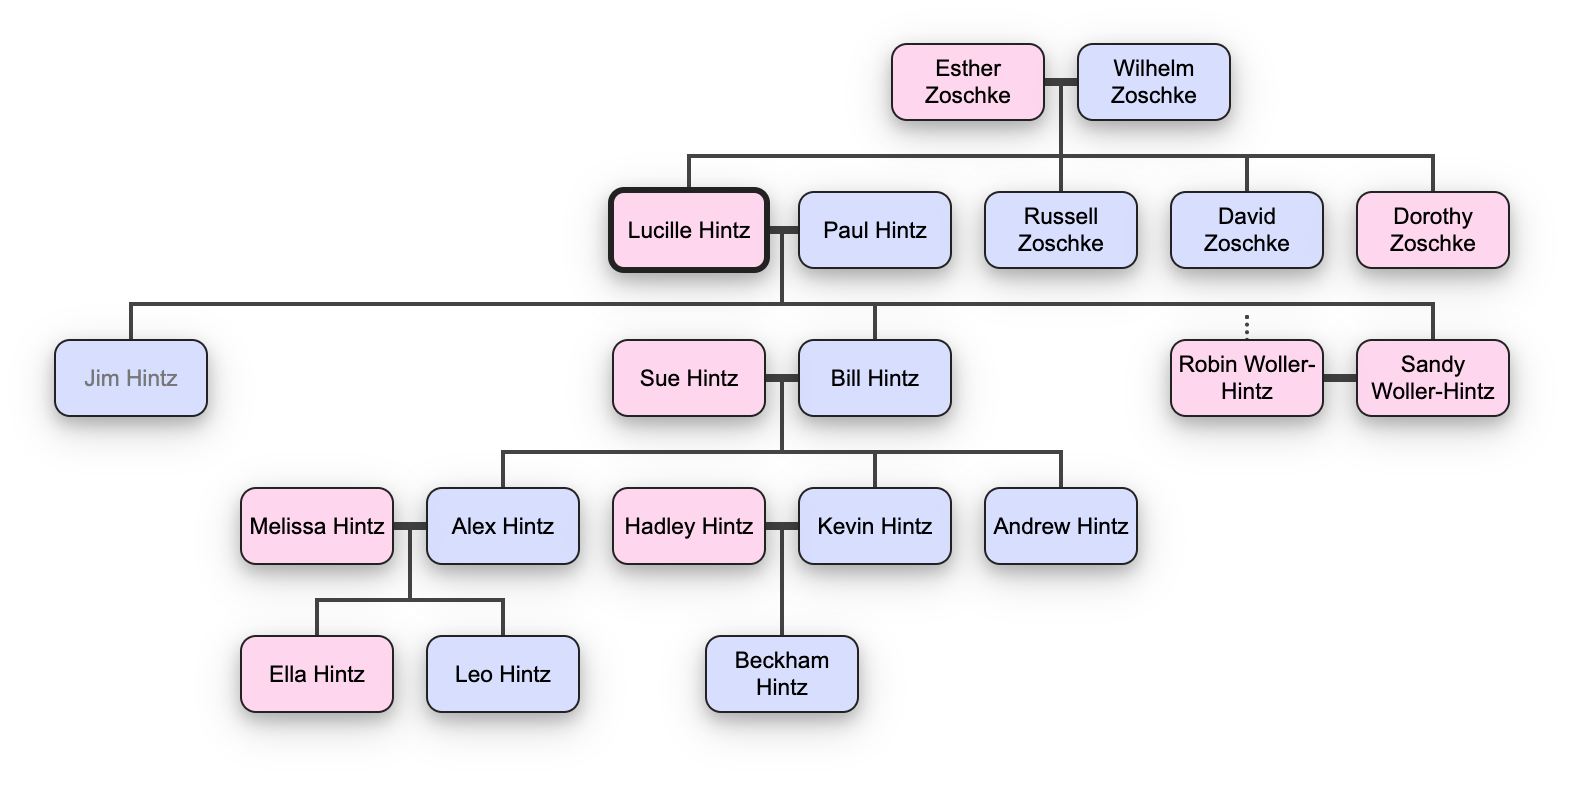
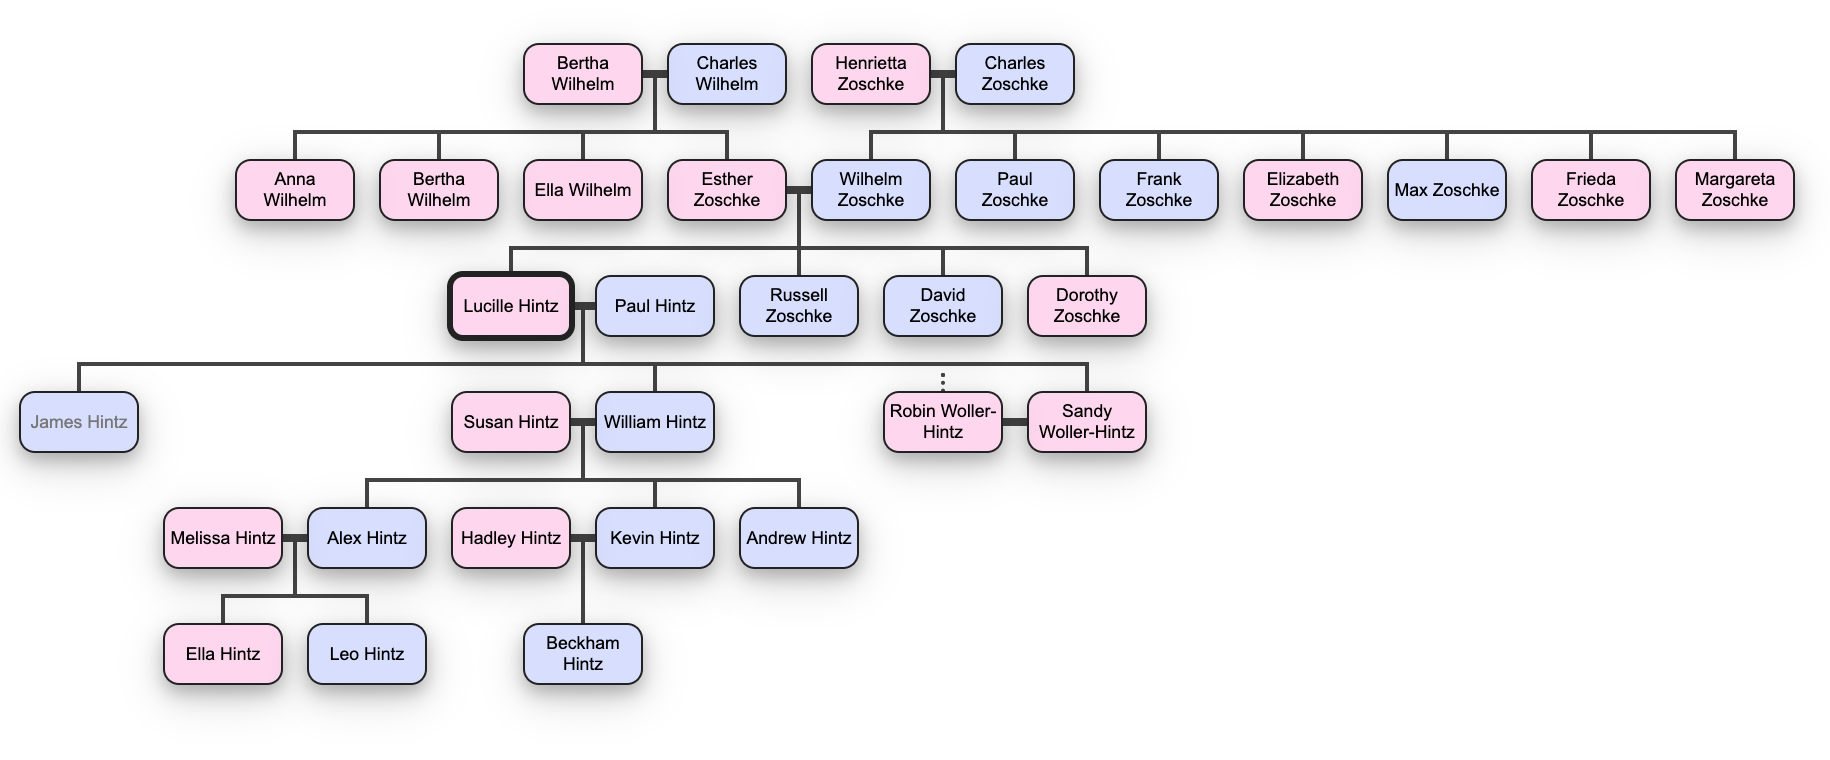
hamburger

diff --git a/src/app/FamilyTree/page.tsx b/src/app/FamilyTree/page.tsx
@@ -7,8 +7,6 @@ import { useEffect, useState } from "react";
 import { FaCaretDown, FaCaretUp } from "react-icons/fa";
 import Member from "@/components/Member/Member";
 
-// todo create member comp
-
 export default function Home() {
   const [mobile, setMobile] = useState(false);
   const [down, setDown] = useState(true);
@@ -39,15 +37,7 @@ export default function Home() {
       <h2>Nana&apos;s Family Tree</h2>
 
       {mobile ? (
-        // <Image height={250} width={400} src={tree} alt="Nana's Family Tree" />
         <div className={styles.treeMain}>
-          <Member
-            relationship="Parents"
-            people={[
-              { name: "Esther Zoschke", rel: "Mom" },
-              { name: "Wilhelm Zoschke", rel: "Dad" },
-            ]}
-          />
           <Member
             relationship="Grandparents"
             people={[
@@ -55,6 +45,13 @@ export default function Home() {
               { name: "Henrietta Kroggel", rel: "Grandma  - Paternal" },
               { name: "Charles Wilhelm", rel: "Grandpa  - Maternal" },
               { name: "Bertha Neitzel", rel: "Grandma  - Maternal" },
+            ]}
+          />
+          <Member
+            relationship="Parents"
+            people={[
+              { name: "Esther Zoschke", rel: "Mom" },
+              { name: "Wilhelm Zoschke", rel: "Dad" },
             ]}
           />
           <Member
@@ -77,9 +74,9 @@ export default function Home() {
                 name: "Margareta Zoschke (Arthur Tetzlaff)",
                 rel: "Aunt - Paternal",
               },
-              { name: "Anna Zoschke", rel: "Aunt - Maternal" },
-              { name: "Bertha Zoschke", rel: "Aunt - Maternal" },
-              { name: "Ella Zoschke", rel: "Aunt - Maternal" },
+              { name: "Anna Wilhelm", rel: "Aunt - Maternal" },
+              { name: "Bertha Wilhelm", rel: "Aunt - Maternal" },
+              { name: "Ella Wilhelm", rel: "Aunt - Maternal" },
             ]}
           />
           <Member

diff --git a/src/styles/Header.module.css b/src/styles/Header.module.css
@@ -1,3 +1,83 @@
+.hamburgerMenu {
+  --x-width: calc(var(--hamburger-height) * 1.41421356237);
+
+  display: flex;
+  flex-direction: column;
+  gap: var(--hamburger-gap);
+  width: max-content;
+  position: absolute;
+  top: var(--hamburger-margin);
+  left: var(--hamburger-margin-left);
+  z-index: 2;
+  cursor: pointer;
+}
+
+.hamburgerMenu:has(input:checked) {
+  --foreground: white;
+  --background: #333;
+}
+
+.hamburgerMenu:has(input:focus-visible)::before,
+.hamburgerMenu:has(input:focus-visible)::after,
+.hamburgerMenu input:focus-visible {
+  border: 1px solid var(--background);
+  box-shadow: 0 0 0 1px var(--foreground);
+}
+
+.hamburgerMenu::before,
+.hamburgerMenu::after,
+.hamburgerMenu input {
+  content: "";
+  width: var(--bar-width);
+  height: var(--bar-height);
+  background-color: var(--foreground);
+  border-radius: 9999px;
+  transform-origin: left center;
+  transition: opacity var(--animation-timing), width var(--animation-timing),
+    rotate var(--animation-timing), translate var(--animation-timing),
+    background-color var(--animation-timing);
+}
+
+.hamburgerMenu input {
+  appearance: none;
+  padding: 0;
+  margin: 0;
+  outline: none;
+  pointer-events: none;
+}
+
+.hamburgerMenu:has(input:checked)::before {
+  rotate: 45deg;
+  width: var(--x-width);
+  translate: 0 calc(var(--bar-height) / -2);
+}
+
+.hamburgerMenu:has(input:checked)::after {
+  rotate: -45deg;
+  width: var(--x-width);
+  translate: 0 calc(var(--bar-height) / 2);
+}
+
+.hamburgerMenu input:checked {
+  opacity: 0;
+  width: 0;
+}
+
+.sidebar {
+  transition: translate var(--animation-timing);
+  translate: -100%;
+  padding: 0.5rem 1rem;
+  padding-top: calc(var(--hamburger-height) + var(--hamburger-margin) + 1rem);
+  background-color: var(--foreground);
+  color: var(--background);
+  max-width: 10rem;
+  min-height: 100vh;
+}
+
+.hamburgerMenu:has(input:checked) + .sidebar {
+  translate: 0;
+}
+
 .header {
   border-bottom: 1px solid black;
   width: 100vw;

diff --git a/src/components/header.tsx b/src/components/header.tsx
@@ -31,24 +31,9 @@ const Header = () => {
           Nana's Memories
         </Link>
       </h1>
-      <div className={styles.keepRight}>
-        {navbarStatus === false ? (
-          <div className={`${styles.menuBtn}`}>
-            <GiHamburgerMenu
-              onClick={handleToggle}
-              // style={{ backgroundColor: "var(--secondaryBackground)" }}
-            />
-          </div>
-        ) : (
-          <div onClick={handleToggle} className={`${styles.xBtnContainer}`}>
-            <div
-              className={`${styles.iconWidth} ${styles.openBtn} ${styles.xBtn}`}
-            >
-              X
-            </div>
-          </div>
-        )}
-      </div>
+      <label className={`${styles.hamburgerMenu}`}>
+        <input type="checkbox" onClick={handleToggle} />
+      </label>
       <div className={styles.sideNav}>
         <ul
           className={`${styles.menuNav} ${

diff --git a/src/app/globals.css b/src/app/globals.css
@@ -6,6 +6,15 @@
   --primary-background: #1d2d44;
   --primary-font: #f0ebd8;
   --secondary-background: #748cab;
+  --bar-width: 30px;
+  --bar-height: 4px;
+  --hamburger-gap: 6px;
+  --foreground: var(--primary-font);
+  --background: var(--primary-background);
+  --hamburger-margin: 3.5vh;
+  --hamburger-margin-left: 90vw;
+  --animation-timing: 200ms ease-in-out;
+  --hamburger-height: calc(var(--bar-height) * 3 + var(--hamburger-gap) * 2);
 }
 
 * {

diff --git a/src/app/page.tsx b/src/app/page.tsx
@@ -14,7 +14,7 @@ import { db } from "../assets/firebase/firebase";
 import { useState, useEffect } from "react";
 import { getDownloadURL, getStorage, ref } from "firebase/storage";
 
-//todo fix spacing on images (Image component)
+//todo fix spacing on images (Image component) instead of img
 
 export default function Home() {
   const [memoryList, setMemoryList] = useState<Array<memObj>>();
